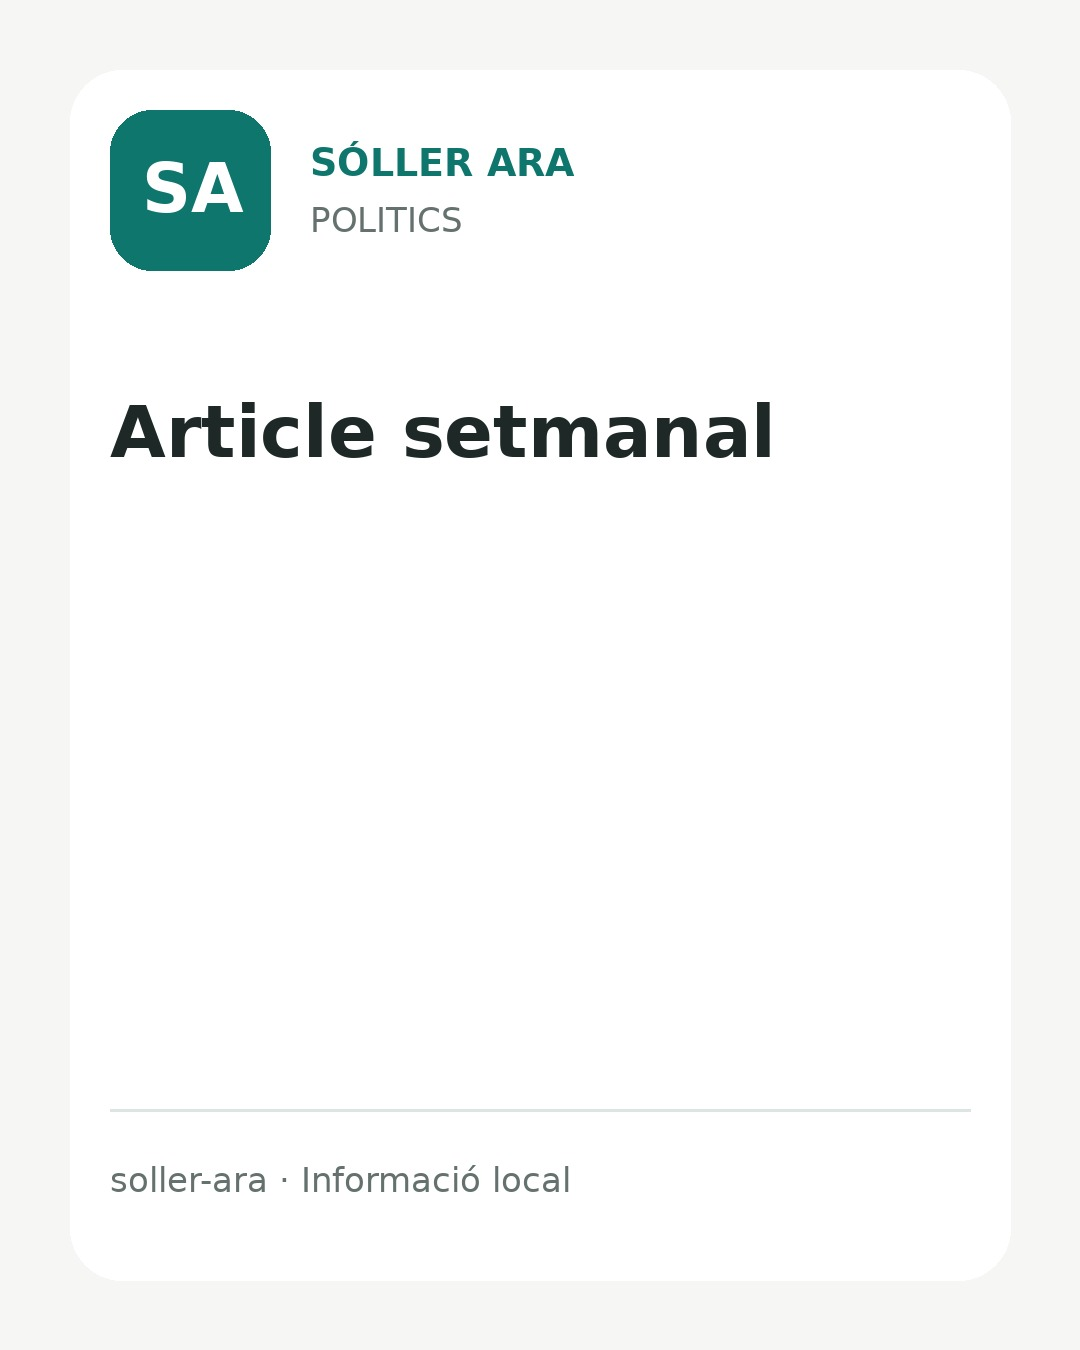
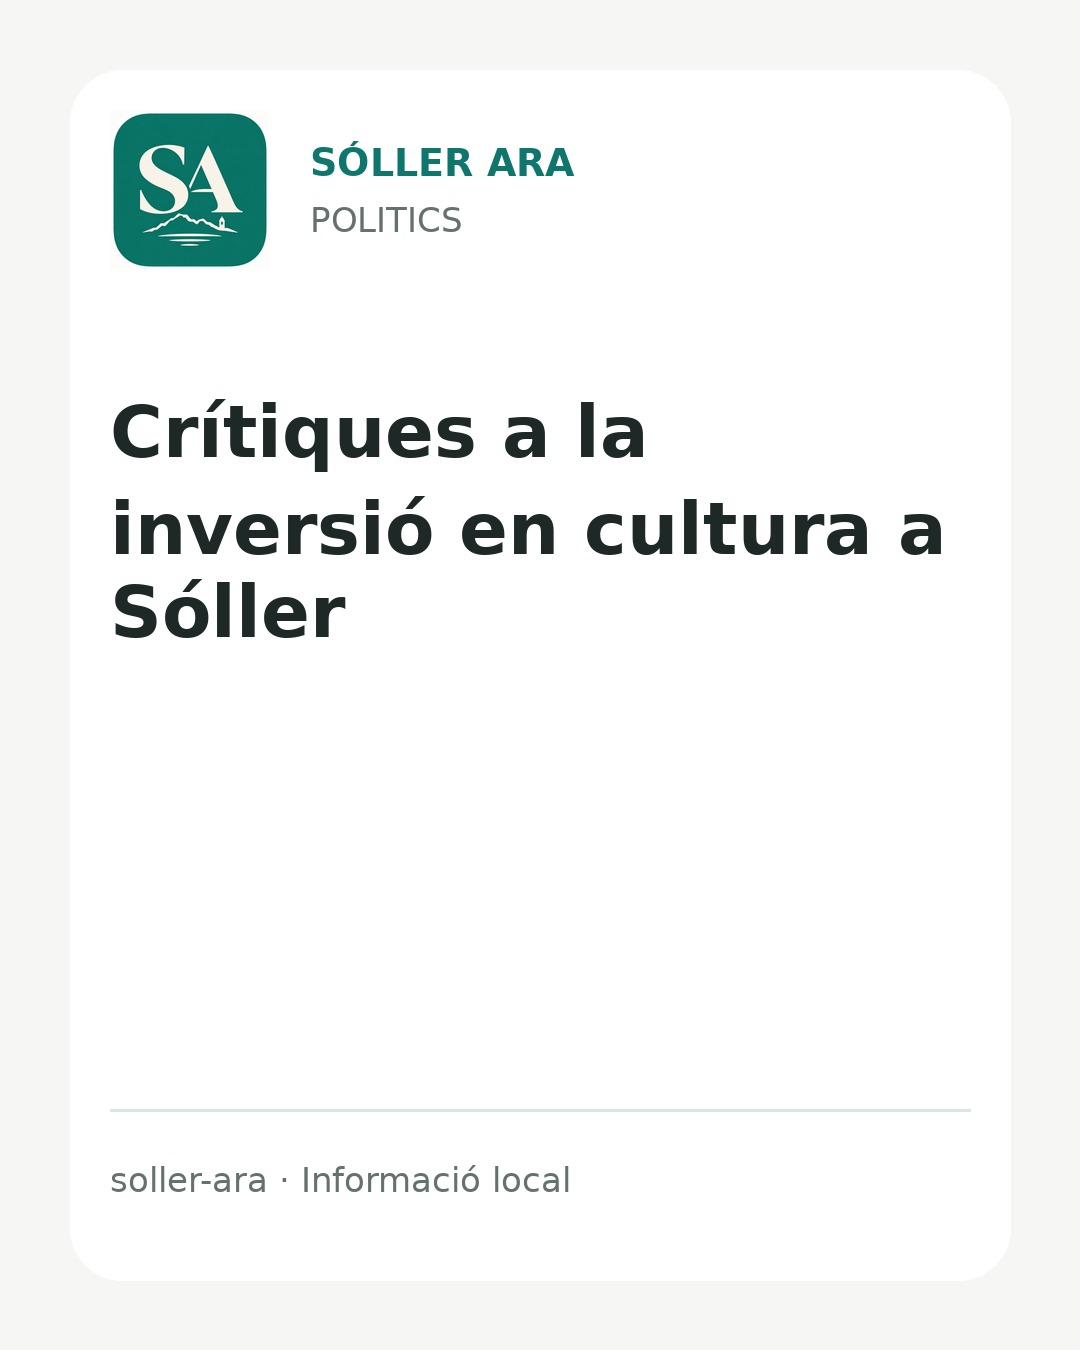
editar: contingut propi de Sóller Ara

Changed region(s): [[0.0917, 0.28, 0.7333, 0.4978], [0.4278, 0.3733, 0.8861, 0.4356], [0.0917, 0.0933, 0.275, 0.2178]]

diff --git a/noticies/soller-ara-fc4fe4f496360768.html b/noticies/soller-ara-fc4fe4f496360768.html
@@ -4,25 +4,28 @@
   <meta charset="utf-8" />
   <meta name="viewport" content="width=device-width, initial-scale=1" />
   <meta name="theme-color" content="#0f766e" />
-  <title>Article setmanal · Sóller Ara</title>
-  <meta name="description" content="Article setmanal del partir polític Més per Sóller." />
+  <title>Crítiques a la inversió en cultura a Sóller · Sóller Ara</title>
+  <meta name="description" content="La formació Més per Sóller qüestiona la inversió de l&#x27;equip de govern en el món de la cultura, assenyalant mancances en equipament i climatització després de la resposta de la regidora de l&#x27;àrea." />
   <link rel="canonical" href="https://soller-ara.github.io/soller-ara/noticies/soller-ara-fc4fe4f496360768.html" />
-  <link rel="stylesheet" href="../styles.css?v=0.38" />
+  <link rel="icon" href="../favicon.ico" sizes="any" />
+  <link rel="icon" type="image/png" sizes="48x48" href="../assets/brand/favicon-48.png" />
+  <link rel="apple-touch-icon" sizes="180x180" href="../assets/brand/apple-touch-icon.png" />
+  <link rel="stylesheet" href="../styles.css?v=0.64" />
   <meta property="og:type" content="article" />
   <meta property="og:site_name" content="Sóller Ara" />
-  <meta property="og:title" content="Article setmanal" />
-  <meta property="og:description" content="Article setmanal del partir polític Més per Sóller." />
+  <meta property="og:title" content="Crítiques a la inversió en cultura a Sóller" />
+  <meta property="og:description" content="La formació Més per Sóller qüestiona la inversió de l&#x27;equip de govern en el món de la cultura, assenyalant mancances en equipament i climatització després de la resposta de la regidora de l&#x27;àrea." />
   <meta property="og:url" content="https://soller-ara.github.io/soller-ara/noticies/soller-ara-fc4fe4f496360768.html" />
   <meta property="og:image" content="https://soller-ara.github.io/soller-ara/assets/generated/soller-ara-fc4fe4f496360768.jpg" />
   <meta name="twitter:image" content="https://soller-ara.github.io/soller-ara/assets/generated/soller-ara-fc4fe4f496360768.jpg" />
   <meta name="twitter:card" content="summary_large_image" />
-  <meta name="twitter:title" content="Article setmanal" />
-  <meta name="twitter:description" content="Article setmanal del partir polític Més per Sóller." />
+  <meta name="twitter:title" content="Crítiques a la inversió en cultura a Sóller" />
+  <meta name="twitter:description" content="La formació Més per Sóller qüestiona la inversió de l&#x27;equip de govern en el món de la cultura, assenyalant mancances en equipament i climatització després de la resposta de la regidora de l&#x27;àrea." />
 </head>
 <body>
   <header class="topbar">
     <a class="brand-wrap" href="../index.html" style="text-decoration:none">
-      <div class="brand-mark" aria-hidden="true">SA</div>
+      <div class="brand-mark"><img src="../assets/brand/logo-soller-ara-web.png" width="48" height="48" alt="" /></div>
       <div><h1>Sóller Ara</h1><p>Tot el que passa a Sóller, en un sol lloc.</p></div>
     </a>
   </header>
@@ -30,10 +33,10 @@
     <a class="legal-back" href="../index.html">← Tornar a Sóller Ara</a>
     <article class="legal-card own-article">
       <p class="eyebrow">Més per Sóller</p>
-      <h1>Article setmanal</h1>
+      <h1>Crítiques a la inversió en cultura a Sóller</h1>
       <p class="article-date">2026-09-25T07:26:21.577605+00:00</p>
       <img class="article-image" src="https://soller-ara.github.io/soller-ara/assets/generated/soller-ara-fc4fe4f496360768.jpg" alt="" />
-      <div class="article-body"><p>Article setmanal del partir polític Més per Sóller.</p></div>
+      <div class="article-body"><p>La formació Més per Sóller qüestiona la inversió de l&#x27;equip de govern en el món de la cultura, assenyalant mancances en equipament i climatització després de la resposta de la regidora de l&#x27;àrea.</p></div>
       <p class="article-source">Font original: <strong>Més per Sóller</strong> · <a class="origin-link" href="https://www.facebook.com/share/p/1cUyGYcsNG/?mibextid=wwXIfr" target="_blank" rel="noopener noreferrer">Veure publicació original →</a></p>
       <p><a class="origin-link" href="../index.html">Veure més informació a Sóller Ara →</a></p>
     </article>

diff --git a/data/posts.js b/data/posts.js
@@ -584,16 +584,15 @@ window.SOLLER_ARA_DATA = {
       "language": "ca",
       "locality": "Sóller",
       "published_at": "2026-09-25T07:26:21.577605+00:00",
-      "title": "Article setmanal",
-      "summary": "Article setmanal del partir polític Més per Sóller.",
+      "title": "Crítiques a la inversió en cultura a Sóller",
+      "summary": "La formació Més per Sóller qüestiona la inversió de l'equip de govern en el món de la cultura, assenyalant mancances en equipament i climatització després de la resposta de la regidora de l'àrea.",
       "url": "https://soller-ara.github.io/soller-ara/noticies/soller-ara-fc4fe4f496360768.html",
       "content_policy": "manual_link_reference",
       "rights_status": "no_reuse_reference_only",
       "image_allowed": true,
       "original_url": "https://www.facebook.com/share/p/1cUyGYcsNG/?mibextid=wwXIfr",
       "media_url": "https://soller-ara.github.io/soller-ara/assets/generated/soller-ara-fc4fe4f496360768.jpg",
-      "media_type": "image",
-      "related_sources": []
+      "media_type": "image"
     },
     {
       "id": "9711b8046a70de46726b",
